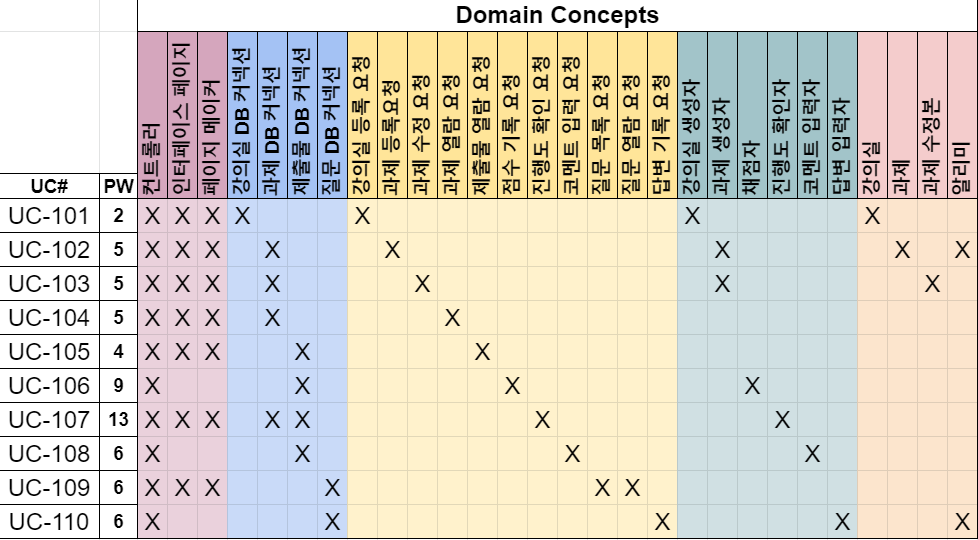
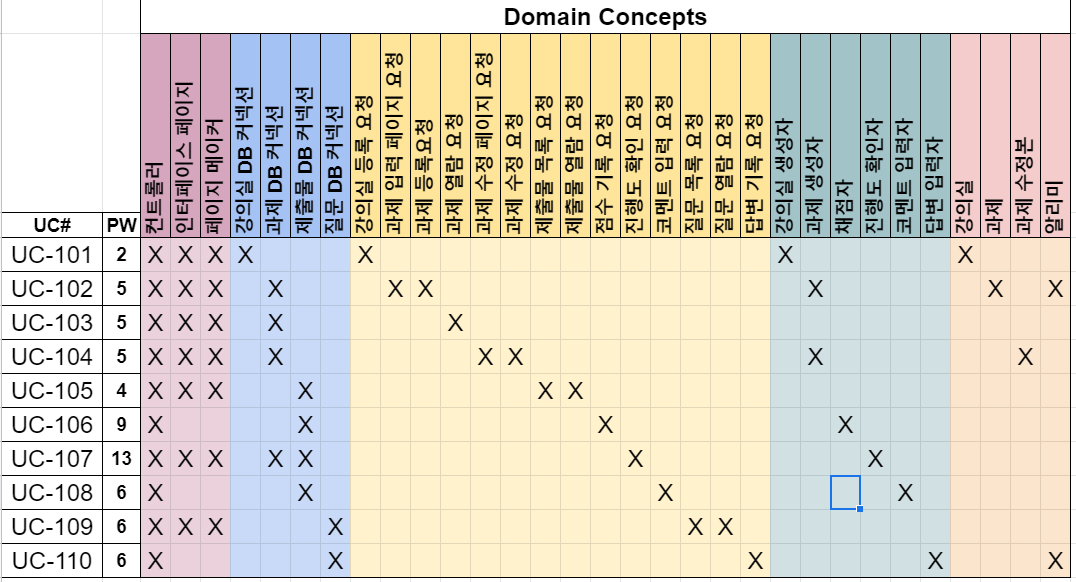
Module1/UC, DM 수정
수정 내용 맞춰서 관련 문서들도 수정하였습니다.

diff --git a/모듈 1 UC DM 수정 내용(참고용).md b/모듈 1 UC DM 수정 내용(참고용).md
@@ -1,0 +1,111 @@
+### UC 102 과제 등록
+
+플로우에서 과제 내용 입력 페이지 보여주는 부분 추가.
+
+[before]
+
+|      | Flow of Events for Main Success Scenario                     |
+| ---- | ------------------------------------------------------------ |
+| ->   | 1. 강의실 내에서 과제 등록 버튼을 누름.                      |
+|      | 2. 과제 이름, 내용, 마감기한, 점수를 입력.                   |
+| <-   | 3. (a) 생성된 과제를 교육자에게 보여줌 <br />(b) 교육자가 입력한 내용을 바탕으로 과제DB에 과제를 등록.<br />(c) 학생에게 과제가 등록되었음이 알려짐. |
+
+[after]
+
+|      | Flow of Events for Main Success Scenario                     |
+| ---- | ------------------------------------------------------------ |
+| ->   | 1. 강의실 내에서 과제 등록 버튼을 누름.                      |
+| <-   | 2. 과제 내용 입력 페이지를 보여줌.                           |
+| ->   | 3. 과제 이름, 내용, 마감기한, 점수를 입력.                   |
+| <-   | 4. (a) 생성된 과제를 교육자에게 보여줌 <br />(b) 교육자가 입력한 내용을 바탕으로 과제DB에 과제를 등록.<br />(c) 학생에게 과제가 등록되었음이 알려짐. |
+
+__DM 102 추가 내용__
+
+[Responsibility] +=
+교육자가 과제 정보를 입력할 수 있는 인터페이스 페이지 요청.| K | 과제 입력 페이지 요청
+
+[Associations] +=
+과제 입력 페이지 요청 -> 컨트롤러  | 과제 입력 페이지 생성 요청 전달  | receives
+
+[Attributes]
+단순히 페이지 표시 요청이라서 특별히 어트리뷰트는 없습니다.
+
+### UC 103 과제 열람 <- UC 104 과제 열람
+
+넘버링 수정, Initiating Actor에 학생 추가
+
+__DM 103__은 넘버링 수정밖에 없습니다.
+
+### UC 104 과제 수정 <- UC 103 과제 수정
+
+넘버링 수정.
+과제 열람 이후에 과제 수정이 있는 쪽으로 플로우 수정.
+
+[before]
+
+|      | Flow of Events for Main Success Scenario                     |
+| ---- | ------------------------------------------------------------ |
+| ->   | 1. 등록한 과제의 페이지로 이동하여 과제 수정 버튼을 클릭한다. |
+| <-   | 2. 기존에 입력했던 과제의 내용을 화면에 표시한다.            |
+| ->   | 3. 과제의 내용을 수정한다.                                   |
+| <-   | 4. 입력한 정보를 바탕으로 과제가 수정되어 과제 DB에 저장한다. |
+
+[after]
+
+|      | Flow of Events for Main Success Scenario                     |
+| ---- | ------------------------------------------------------------ |
+|      | 1. Extends UC-103 과제 열람                                  |
+| ->   | 2. 과제 페이지에서 과제 수정 버튼을 누른다.                  |
+| <-   | 3. 과제의 기존 내용을 포함하여 과제 내용 수정 페이지를 보여준다. |
+| ->   | 3. 수정할 내용을 입력한다.                                   |
+| <-   | 4. 입력한 정보를 바탕으로 과제가 수정되어 과제 DB에 저장한다. |
+
+__DM 104 추가 내용__
+
+[Responsibility] +=
+교육자가 과제 정보를 수정할 수 있는 인터페이스 페이지 요청.  | K | 과제 수정 페이지 요청
+
+[Associations] +=
+과제 수정 페이지 요청 -> 컨트롤러  | 과제 수정 페이지 생성 요청 전달  | receives
+
+[Attributes]
+DM 102 추가 내용과 마찬가지로 단순히 페이지 표시 요청이라서 특별히 어트리뷰트는 없습니다.
+
+### DM 105 제출물 열람
+
+[Responsibility] +=
+교육자가 제출물 목록을 보고자 하는 과제의 ID | K | 제출물 목록 요청
+
+[Associations] +=
+제출물 목록 요청 -> 컨트롤러  | 제출물 목록을 표시할 과제의 ID 전달  | receives
+
+[Attributes] +=
+제출물 목록 요청  | 과제 ID  | 과제 ID에 해당하는 제출물 DB에 접근
+페이지 생성자 | 제출물 목록  |제출물 목록 요청으로 제출물 DB에서 제공받은 제출물의 목록 정보
+
+위 내용들에 맞춰서  각 TM과 전체 모음링크도 수정하였습니다.
+
+### 수정 요구 내용
+
+__UC 103, UC 104__
+UC 103과 104의 extend관계 설명할 수 있도록 UC 다이어그램 수정
+넘버링 반영해서 계정 관리 서브 시스템 UC 다이어그램 수정
+
+__DM 102__ 다이어그램에 과제 입력 페이지 요청 추가 반영해서 다이어그램 수정
+__DM 103, DM 104__넘버링 수정에 맞게 다이어그램 수정
+__DM 103__ actor에 학생 추가되었는데, actor이름만 <<교육자, 학생>>으로 바꿔주면 될듯.
+__DM 104__ DM 102처럼 수정 페이지 요청 추가되었습니다. 
+__DM 105__ 제출물 목록 요청 추가, 페이지 생성자 attribute 추가 반영해서 다이어그램 수정
+
+DM 102랑 DM 104에서 페이지 요청 추가 부분은 시퀀스 다이어그램에 맞춰 DM을 수정한거라서, 시퀀스에서 리퀘스트 이름 정도만 수정하면 될 듯 합니다.
+다이어그램 수정 후에 링크 문제가 있을 수 있어서, 깃허브에 바로 올리지 말고 김윤혁씨한테 이미지 보내주시면 됩니다.
+
+### 추가 논의 사항 메모
+
+UC 103 과제 열람은 학생, 교육자 둘 다 쓸 수 있는거라서 Initiating Actor에 교육자 추가함.
+UC 105 제출물 열람은 학생이랑 교육자 입장에서 결이 조금 달라서 분리하는게 맞는 듯.
+UC 203 제출물 제출 결과 확인이 학생 측 제출물 열람으로 이해해도 될 것 같다.
+
+입력 페이지 요청 추가에 맞춰서 다른 UC들도 수정해야되는데, 당장 쓸거 아니라서 일단 수정 안했습니다.
+대표적으로 UC 101같은거.
+

diff --git a/Domain Model/Module1_Educator/Domain Model for UC - 105 제출물 열람.md b/Domain Model/Module1_Educator/Domain Model for UC - 105 제출물 열람.md
@@ -3,6 +3,7 @@
 | Responsibility Description                                   | Type | Concept Name      |
 | ------------------------------------------------------------ | ---- | ----------------- |
 | 각 컨셉들의 동작을 제어하고 다른 컨셉과 연결해준다.          | D    | 컨트롤러          |
+| 교육자가 제출물 목록을 보고자 하는 과제의 ID                 | K    | 제출물 목록 요청  |
 | 교육자가 찾으려고 하는 과제의 정보. (강의실, 학생 학번, 제출물 ID 등 ) | K    | 제출물 열람 요청  |
 | 제출물 DB와 각 컨셉들을 연결해준다.                          | D    | 제출물 DB 커넥션  |
 | 교육자의 화면에 표시하는 HTML 문서를 렌더링 한다.            | D    | 페이지 생성자     |
@@ -10,21 +11,24 @@
 
 ##### Associations
 
-| Concept pair                       | Association Description                                     | Association name |
-| ---------------------------------- | ----------------------------------------------------------- | ---------------- |
-| 제출물 열람 요청 -> 컨트롤러       | 열람할 제출물의 제출물 ID와 학생 ID 전달                    | receives         |
-| 컨트롤러 -> 페이지 생성자          | 컨트롤러가 페이지 생성자에게 요청 전달                      | conveys request  |
-| 컨트롤러 -> 제출물 DB 커넥션       | 열람할 제출물을 DB 커넥션에게 검색 요청                     | conveys request  |
-| 컨트롤러 -> 인터페이스 페이지      | 컨트롤러가 인터페이스 페이지 게시를 요청                    | post             |
-| 페이지 생성자 -> 인터페이스 페이지 | 페이지 생성자가 인터페이스 페이지 생성을 준비함.            | prepares         |
-| 제출물 DB 커넥션 -> 페이지 생성자  | DB 커넥션이 요청받은 제출물 데이터를 페이지 생성자에게 제공 | provides data    |
+| Concept pair                       | Association Description                                      | Association name |
+| ---------------------------------- | ------------------------------------------------------------ | ---------------- |
+| 제출물 목록 요청 -> 컨트롤러       | 제출물 목록을 표시할 과제의 ID 전달                          | receives         |
+| 제출물 열람 요청 -> 컨트롤러       | 열람할 제출물의 제출물 ID와 학생 ID 전달                     | receives         |
+| 컨트롤러 -> 페이지 생성자          | 컨트롤러가 페이지 생성자에게 요청 전달                       | conveys request  |
+| 컨트롤러 -> 제출물 DB 커넥션       | 열람할 제출물 혹은 제출물 목록을 DB 커넥션에게 검색 요청     | conveys request  |
+| 컨트롤러 -> 인터페이스 페이지      | 컨트롤러가 인터페이스 페이지 게시를 요청                     | post             |
+| 페이지 생성자 -> 인터페이스 페이지 | 페이지 생성자가 인터페이스 페이지 생성을 준비함.             | prepares         |
+| 제출물 DB 커넥션 -> 페이지 생성자  | DB 커넥션이 요청받은 제출물 데이터 혹은 리스트를 페이지 생성자에게 제공 | provides data    |
 
 ##### Attributes
 
 | Concept          | Attributes                | Attribute Description                                        |
 | ---------------- | ------------------------- | ------------------------------------------------------------ |
+| 제출물 목록 요청 | 과제 ID                   | 과제 ID에 해당하는 제출물 DB에 접근                          |
 | 제출물 열람 요청 | 제출물 파라미터           | 제출물 ID, 학생 ID                                           |
-| 페이지 생성자    | 제출물 파라미터 및 플래그 | 제출물 탐색 요청으로 제출물 DB에서 제공받은 제출물의 파라미터 및 플래 |
+| 페이지 생성자    | 제출물 목록               | 제출물 목록 요청으로 제출물 DB에서 제공받은 제출물의 목록 정보 |
+|                  | 제출물 파라미터 및 플래그 | 제출물 열람 요청으로 제출물 DB에서 제공받은 제출물의 파라미터 및 플래그 |
 
 ##### Diagram
 -------

diff --git a/Domain Model/Module1_Educator/Domain Model for UC - 102 과제 등록.md b/Domain Model/Module1_Educator/Domain Model for UC - 102 과제 등록.md
@@ -1,20 +1,22 @@
 # Domain Model for UC - 102 과제 등록
 
-| Responsibility Description                                   | Type | Concept Name      |
-| ------------------------------------------------------------ | ---- | ----------------- |
-| 각 컨셉들의 동작을 제어하고 다른 컨셉과 연결해준다.          | D    | 컨트롤러          |
-| 교육자가 등록하고자 하는 과제의 정보.                        | K    | 과제 등록요청     |
-| 과제 DB와 각 컨셉들을 연결해준다.                            | D    | 과제 DB 커넥션    |
-| 과제 등록 요청을 바탕으로 과제 객체를 생성하고, <br />DB커넥션을 통해 과제 DB에 전달한다. | D    | 과제 생성자       |
-| 과제 등록 요청을 바탕으로 과제 생성자에 의해 생성된 과제 객체 | K    | 과제              |
-| 사용자의 화면에 표시하는 HTML 문서를 렌더링 한다.            | D    | 페이지 생성자     |
-| 사용자가 보는 페이지.                                        | K    | 인터페이스 페이지 |
-| 과제 DB에서 과제 정보를 받아와 학생에게 알린다.              | D    | 알리미            |
+| Responsibility Description                                   | Type | Concept Name          |
+| ------------------------------------------------------------ | ---- | --------------------- |
+| 각 컨셉들의 동작을 제어하고 다른 컨셉과 연결해준다.          | D    | 컨트롤러              |
+| 교육자가 과제 정보를 입력할 수 있는 인터페이스 페이지 요청.  | K    | 과제 입력 페이지 요청 |
+| 교육자가 등록하고자 하는 과제의 정보.                        | K    | 과제 등록요청         |
+| 과제 DB와 각 컨셉들을 연결해준다.                            | D    | 과제 DB 커넥션        |
+| 과제 등록 요청을 바탕으로 과제 객체를 생성하고, <br />DB커넥션을 통해 과제 DB에 전달한다. | D    | 과제 생성자           |
+| 과제 등록 요청을 바탕으로 과제 생성자에 의해 생성된 과제 객체 | K    | 과제                  |
+| 사용자의 화면에 표시하는 HTML 문서를 렌더링 한다.            | D    | 페이지 생성자         |
+| 사용자가 보는 페이지.                                        | K    | 인터페이스 페이지     |
+| 과제 DB에서 과제 정보를 받아와 학생에게 알린다.              | D    | 알리미                |
 
 ##### Associations
 
 | Concept pair                       | Association Description                                  | Association name |
 | ---------------------------------- | -------------------------------------------------------- | ---------------- |
+| 과제 입력 페이지 요청 -> 컨트롤러  | 과제 입력 페이지 생성 요청 전달                          | receives         |
 | 과제 등록요청 -> 컨트롤러          | 과제 정보 전달                                           | receives         |
 | 컨트롤러 -> 과제 생성자            | 컨트롤러가 과제 정보를 과제 생성자에게 전달              | conveys requests |
 | 컨트롤러 -> 페이지 생성자          | 컨트롤러가 페이지 생성자에게 요청 전달                   | conveys requests |

diff --git a/Domain Model/Module1_Educator/Domain Model for UC - 104 과제 수정.md b/Domain Model/Module1_Educator/Domain Model for UC - 104 과제 수정.md
@@ -1,19 +1,21 @@
-# Domain Model for UC - 103 과제 수정
+# Domain Model for UC - 104 과제 수정
 
-| Responsibility Description                                   | Type | Concept Name      |
-| ------------------------------------------------------------ | ---- | ----------------- |
-| 각 컨셉들의 동작을 제어하고 다른 컨셉과 연결해준다.          | D    | 컨트롤러          |
-| 교육자가 수정하고자 하는 과제의 ID와 수정 내용               | K    | 과제 수정요청     |
-| 과제 DB와 각 컨셉들을 연결해준다.                            | D    | 과제 DB 커넥션    |
-| 과제 수정 요청으로 과제의 내용을 수정하고 수정한 과제를 과제 DB에 저장 | D    | 과제 생성자       |
-| 과제 수정 요청을 바탕으로 과제 수정자에 의해 새롭게 생성된 과제 객체 | K    | 과제 수정본       |
-| 교육자의 화면에 표시하는 HTML 문서를 렌더링 한다.            | D    | 페이지 생성자     |
-| 사용자가 보는 페이지.                                        | K    | 인터페이스 페이지 |
+| Responsibility Description                                   | Type | Concept Name          |
+| ------------------------------------------------------------ | ---- | --------------------- |
+| 각 컨셉들의 동작을 제어하고 다른 컨셉과 연결해준다.          | D    | 컨트롤러              |
+| 교육자가 과제 정보를 수정할 수 있는 인터페이스 페이지 요청.  | K    | 과제 수정 페이지 요청 |
+| 교육자가 수정하고자 하는 과제의 ID와 수정 내용               | K    | 과제 수정요청         |
+| 과제 DB와 각 컨셉들을 연결해준다.                            | D    | 과제 DB 커넥션        |
+| 과제 수정 요청으로 과제의 내용을 수정하고 수정한 과제를 과제 DB에 저장 | D    | 과제 생성자           |
+| 과제 수정 요청을 바탕으로 과제 수정자에 의해 새롭게 생성된 과제 객체 | K    | 과제 수정본           |
+| 교육자의 화면에 표시하는 HTML 문서를 렌더링 한다.            | D    | 페이지 생성자         |
+| 사용자가 보는 페이지.                                        | K    | 인터페이스 페이지     |
 
 ##### Associations
 
 | Concept pair                       | Association Description                                      | Association name |
 | ---------------------------------- | ------------------------------------------------------------ | ---------------- |
+| 과제 수정 페이지 요청 -> 컨트롤러  | 과제 수정 페이지 생성 요청 전달                              | receives         |
 | 과제 수정요청 -> 컨트롤러          | 과제 ID와 수정 내용 전달                                     | receives         |
 | 컨트롤러 -> 과제 생성자            | 컨트롤러가 수정할 과제 ID와 수정 내용을 과제 생성자에게전달  | conveys requests |
 | 컨트롤러 -> 페이지 생성자          | 컨트롤러가 페이지 생성자에게 요청 전달                       | conveys request  |

diff --git a/Use Case/전체 Use Case 모음.md b/Use Case/전체 Use Case 모음.md
@@ -4,8 +4,8 @@
 | ------ | ------------------------------------------------------------ | ----------------------- |
 | 교육자       | 학생들에게 과제를 배부하고, 소통                             | [UC-101: 강의실 등록](Module1_Educator/Use%20Case%20101%20-%20강의실%20등록.md) |
 | 교육자       | 학생들에게 과제를 배부하고, 그 결과를 받아보고, 피드백을 제공 | [UC-102: 과제 등록](Module1_Educator/Use%20Case%20102%20-%20과제%20등록.md) |
-| 교육자       | 이미 제출한 과제의 내용을 수정                               | [UC-103: 과제 수정](Module1_Educator/Use%20Case%20103%20-%20과제%20수정.md) |
-| 교육자       | 교육자가 제출한 과제의 내용을 확인                           | [UC-104: 과제 열람](Module1_Educator/Use%20Case%20104%20-%20과제%20열람.md) |
+| 교육자 | 교육자가 제출한 과제의 내용을 확인 | [UC-103: 과제 열람](Module1_Educator/Use%20Case%20103%20-%20과제%20열람.md) |
+| 교육자       | 이미 제출한 과제의 내용을 수정                               | [UC-104: 과제 수정](Module1_Educator/Use%20Case%20104%20-%20과제%20수정.md) |
 | 교육자       | 학생이 제출한 제출물들의 내용을 보고 채점과 피드백을 제공    | [UC-105: 제출물 열람](Module1_Educator/Use%20Case%20105%20-%20제출물%20열람.md) |
 | 교육자       | 제출물의 점수를 기입 또는 수정.                              | [UC-106: 제출물 채점](Module1_Educator/Use%20Case%20106%20-%20제출물%20채점.md) |
 | 교육자       | 전체 과제의 진행 상황(제출율, 정답율 등)과 각 학생에 대한 과제 진행도를 파악 | [UC-107: 제출물 진행도 확인](Module1_Educator/Use%20Case%20107%20-%20제출물%20진행도%20확인.md) |
@@ -23,5 +23,4 @@
 | Module 2     | 제출된 코드에 대한 테스트를 실행하고 결과를 반환             | [UC-301: 자동 채점](Module3_SystemCore/Use%20Case%20301%20-%20자동%20채점.md) |
 | 교육자     | 제출된 과제들 사이의 유사도를 검사 | [UC-302: 유사도 검사](Module3_SystemCore/Use%20Case%20302%20-%20유사도%20검사.md) |
 | 교육자, 학생 | 시스템의 기능을 각자 사용하기 위해. | [UC-999: 로그인](Module1_Educator/Use%20Case%20999%20-%20로그인.md) |
-
 

diff --git a/Use Case/Module1_Educator/Use Case 104 - 과제 수정.md b/Use Case/Module1_Educator/Use Case 104 - 과제 수정.md
@@ -1,18 +1,19 @@
-# Use Case UC-103: 과제 수정
+# Use Case UC-104: 과제 수정
 
-|                          | UC-103: 과제 수정 (sub-use case)                             |
+|                          | UC-104: 과제 수정 (sub-use case)                             |
 | ------------------------ | ------------------------------------------------------------ |
 | __Related REQ__          | FR1, FR2                                                     |
 | __Initiating Actor__     | 교육자                                                       |
-| __Actor's Goal__         | 이미 제출한 과제의 내용을 수정                    |
+| __Actor's Goal__         | 이미 제출한 과제의 내용을 수정                               |
 | __Participating Actors__ | 과제 DB                                                      |
 | __Preconditions__        | 교육자가 과제를 등록한 적이 있어야 함.<br />교육자가 제출한 과제의 페이지를 열람해야 함. |
 | __Postconditions__       | 교육자가 입력한 내용을 바탕으로 과제가 수정됨.               |
 
 |      | Flow of Events for Main Success Scenario                     |
 | ---- | ------------------------------------------------------------ |
-| ->   | 1. 등록한 과제의 페이지로 이동하여 과제 수정 버튼을 클릭한다. |
-| <-   | 2. 기존에 입력했던 과제의 내용을 화면에 표시한다.            |
-| ->   | 3. 과제의 내용을 수정한다.                                   |
+|      | 1. Extends UC-103 과제 열람                                  |
+| ->   | 2. 과제 페이지에서 과제 수정 버튼을 누른다.                  |
+| <-   | 3. 과제의 기존 내용을 포함하여 과제 내용 수정 페이지를 보여준다. |
+| ->   | 3. 수정할 내용을 입력한다.                                   |
 | <-   | 4. 입력한 정보를 바탕으로 과제가 수정되어 과제 DB에 저장한다. |
 

diff --git a/Domain Model/전체 Domain Model 모음.md b/Domain Model/전체 Domain Model 모음.md
@@ -2,10 +2,10 @@
 
 + [Domain Model for UC - 101 강의실 등록](Module1_Educator/Domain%20Model%20for%20UC%20-%20101%20강의실%20등록.md)
 + [Domain Model for UC - 102 과제 등록](Module1_Educator/Domain%20Model%20for%20UC%20-%20102%20과제%20등록.md)
-+ [Domain Model for UC - 103 과제 수정](Module1_Educator/Domain%20Model%20for%20UC%20-%20103%20과제%20등록.md)
-+ [Domain Model for UC - 104 과제 열람](Module1_Educator/Domain%20Model%20for%20UC%20-%20104%20과제%20열람.md)
++ [Domain Model for UC - 103 과제 열람](Module1_Educator/Domain%20Model%20for%20UC%20-%20103%20과제%20열람.md)
++ [Domain Model for UC - 104 과제 수정](Module1_Educator/Domain%20Model%20for%20UC%20-%20104%20과제%20수정.md)
 + [Domain Model for UC - 105 제출물 열람](Module1_Educator/Domain%20Model%20for%20UC%20-%20105%20제출물%20열람.md)
-+ [Domain Model for UC - 106 제출물 채점](Module1_Educator/Domain%20Model%20for%20UC%20-%20106%20제출물%20채엄.md)
++ [Domain Model for UC - 106 제출물 채점](Module1_Educator/Domain%20Model%20for%20UC%20-%20106%20제출물%20채점.md)
 + [Domain Model for UC - 107 제출물 진행도 확인](Module1_Educator/Domain%20Model%20for%20UC%20-%20107%20제출물%20진행도%20확인.md)
 + [Domain Model for UC - 108 제출물 코멘트](Module1_Educator/Domain%20Model%20for%20UC%20-%20108%20제출물%20코멘트.md)
 + [Domain Model for UC - 109 질문 열람](Module1_Educator/Domain%20Model%20for%20UC%20-%20109%20질문%20열람.md)

diff --git a/Use Case/Module1_Educator/Use Case 102 - 과제 등록.md b/Use Case/Module1_Educator/Use Case 102 - 과제 등록.md
@@ -12,8 +12,9 @@
 |      | Flow of Events for Main Success Scenario                     |
 | ---- | ------------------------------------------------------------ |
 | ->   | 1. 강의실 내에서 과제 등록 버튼을 누름.                      |
-|      | 2. 과제 이름, 내용, 마감기한, 점수를 입력.                   |
-| <-   | 3. (a) 생성된 과제를 교육자에게 보여줌 <br />(b) 교육자가 입력한 내용을 바탕으로 과제DB에 과제를 등록.<br />(c) 학생에게 과제가 등록되었음이 알려짐. |
+| <-   | 2. 과제 내용 입력 페이지를 보여줌.                           |
+| ->   | 3. 과제 이름, 내용, 마감기한, 점수를 입력.                   |
+| <-   | 4. (a) 생성된 과제를 교육자에게 보여줌 <br />(b) 교육자가 입력한 내용을 바탕으로 과제DB에 과제를 등록.<br />(c) 학생에게 과제가 등록되었음이 알려짐. |
 
 |      | Flow of Events for Extensions                                |
 | ---- | ------------------------------------------------------------ |

diff --git a/Use Case/Module1_Educator/Use Case 103 - 과제 열람.md b/Use Case/Module1_Educator/Use Case 103 - 과제 열람.md
@@ -1,10 +1,10 @@
-# Use Case UC-104: 과제 열람
+# Use Case UC-103: 과제 열람
 
-|                          | UC-104: 과제 열람 (sub-use case)                 |
+|                          | UC-103: 과제 열람 (sub-use case)                 |
 | ------------------------ | ------------------------------------------------ |
 | __Related REQ__          | FR1, FR2                                         |
-| __Initiating Actor__     | 교육자                                           |
-| __Actor's Goal__         | 교육자가 제출한 과제의 내용을 확인    |
+| __Initiating Actor__     | 학생, 교육자                                     |
+| __Actor's Goal__         | 교육자가 제출한 과제의 내용을 확인               |
 | __Participating Actors__ | 과제 DB                                          |
 | __Preconditions__        | 교육자가 과제를 등록한 적이 있어야 함.           |
 | __Postconditions__       | 교육자가 등록했던 과제의 내용을 페이지로 보여줌. |

diff --git a/Domain Model/Module1_Educator/Domain Model for UC - 103 과제 열람.md b/Domain Model/Module1_Educator/Domain Model for UC - 103 과제 열람.md
@@ -1,4 +1,4 @@
-# Domain Model for UC - 104 과제 열람
+# Domain Model for UC - 103 과제 열람
 
 | Responsibility Description                          | Type | Concept Name      |
 | --------------------------------------------------- | ---- | ----------------- |
